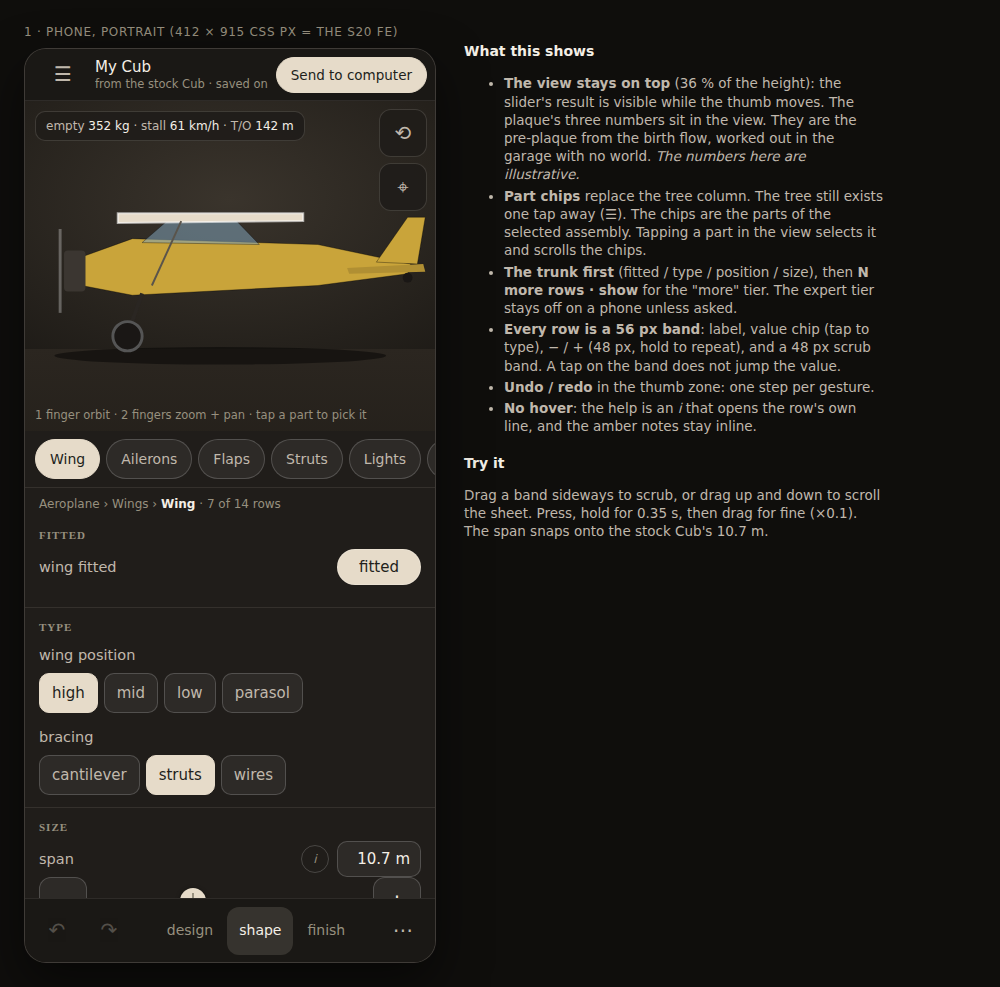
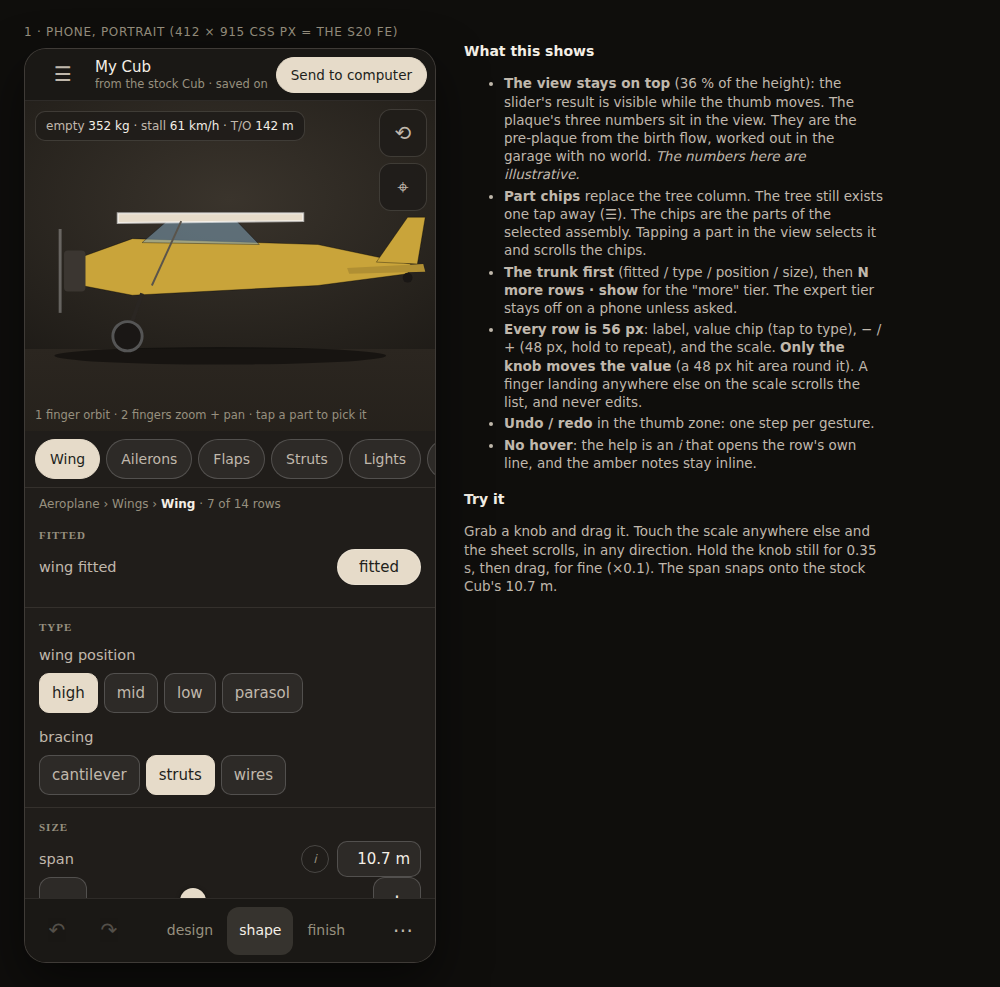
G1512 MOBILE-GARAGE: the user's ruling - on touch ONLY THE KNOB moves a slider; a finger anywhere else on the scale scrolls the list (rowkit, the mock-ups, R4/R5 and the revamp's decisions; the touch check re-run)
Claude-Session: https://claude.ai/code/session_01RFhARPJcxfxfn13XTb5o4Y
(cherry picked from commit 117921a41982d8be7b6f5065f2a150e0549403b7)

Changed region(s): [[0.465, 0.304, 0.868, 0.6079]]

diff --git a/flyDiy/futureDesigns/mobile-garage/rowkit.js b/flyDiy/futureDesigns/mobile-garage/rowkit.js
@@ -58,10 +58,9 @@
   }
 
   // ---- TOUCH: the phone control ----
-  // Rules (MOBILE-GARAGE-2026-10-04.md §2): a 56 px row, a 48 px hit band; a tap on the track does NOT jump the value
-  // (a scroll that lands on a row must never edit); the drag is RELATIVE (it starts where the value is, the finger can
-  // land anywhere on the band); a vertical start scrolls the list instead (touch-action: pan-y); press-and-hold 350 ms
-  // before moving = FINE (x0.1); a live bubble above the finger (the finger hides the thumb); - / + steppers with repeat;
+  // Rules (MOBILE-GARAGE-2026-10-04.md §2): a 56 px row; ONLY THE KNOB MOVES THE VALUE (a 48 px hit area round it) -
+  // a touch anywhere else on the scale scrolls the sheet (touch-action: pan-y) and never edits; the knob's drag is
+  // RELATIVE (no jump to the finger); press-and-hold the knob 350 ms before moving = FINE (x0.1); a live bubble above the finger (the finger hides the thumb); - / + steppers with repeat;
   // a tap on the value opens the decimal keypad; named detents (the archetype's value, the loaded design's) pull 2 %.
   function touchRow(r, P, emit) {
     const kind = ROWKIT.infer(r), row = el('div', 'rk-t rk-t-' + kind); row.dataset.k = r.key;
@@ -101,19 +100,21 @@
           go(); tm = setTimeout(function rep() { go(); tm = setTimeout(rep, 80); }, 400); },
         up() { clearTimeout(tm); if (H.open) { const v = P[r.key]; H.end(); emit(r.key, v, 'release'); } } }; };
     for (const [b, d] of [[minus, -1], [plus, 1]]) { const s = stepper(d); b.onpointerdown = s.down; b.onpointerup = b.onpointerleave = b.onpointercancel = s.up; }
-    // the relative scrub
+    // THE KNOB IS THE ONLY HANDLE (the user, 2026-10-04: "move sliders only by dragging the [knob], NOT by touching the
+    // position on the scale, otherwise it conflicts with simply scrolling through the slider list"). The band has NO
+    // pointer listener and touch-action: pan-y - a finger landing anywhere on the scale scrolls the sheet, whatever its
+    // direction. The knob (26 px drawn, a 48 px hit area: .rk-t-knob::before) has touch-action: none and takes the
+    // pointer at once; the drag is relative (the value moves by the finger's travel, no jump to where it pressed).
     let g = null;
-    band.addEventListener('pointerdown', e => {
-      g = { id: e.pointerId, x0: e.clientX, y0: e.clientY, v0: P[r.key], w: track.getBoundingClientRect().width, mode: 'wait', fine: false, t0: performance.now() };
-      g.hold = setTimeout(() => { if (g && g.mode === 'wait') { g.fine = true; band.classList.add('rk-fine'); } }, 350);
+    knob.addEventListener('pointerdown', e => {
+      e.preventDefault(); e.stopPropagation(); knob.setPointerCapture(e.pointerId);
+      g = { id: e.pointerId, x0: e.clientX, v0: P[r.key], w: track.getBoundingClientRect().width, mode: 'wait', fine: false };
+      band.classList.add('rk-held'); H.begin(r.key, g.v0);
+      g.hold = setTimeout(() => { if (g && g.mode === 'wait') { g.fine = true; band.classList.add('rk-fine'); } }, 350);   // held still: fine
     });
-    band.addEventListener('pointermove', e => {
-      if (!g || e.pointerId !== g.id) return; const dx = e.clientX - g.x0, dy = e.clientY - g.y0;
-      if (g.mode === 'wait') {
-        if (Math.abs(dy) > 10 && Math.abs(dy) > Math.abs(dx)) { clearTimeout(g.hold); g = null; band.classList.remove('rk-fine'); return; }  // a scroll: let it go
-        if (Math.abs(dx) < 8) return;
-        g.mode = 'drag'; clearTimeout(g.hold); band.setPointerCapture(e.pointerId); band.classList.add('rk-drag'); H.begin(r.key, g.v0); g.x0 = e.clientX;
-      }
+    knob.addEventListener('pointermove', e => {
+      if (!g || e.pointerId !== g.id) return;
+      if (g.mode === 'wait') { if (Math.abs(e.clientX - g.x0) < 3) return; g.mode = 'drag'; clearTimeout(g.hold); band.classList.add('rk-drag'); g.x0 = e.clientX; }
       const gain = g.fine ? 0.1 : 1; let v = g.v0 + (e.clientX - g.x0) / g.w * (r.hi - r.lo) * gain;
       for (const d of r.detents || []) if (Math.abs(v - d.v) < 0.02 * (r.hi - r.lo) && !g.fine) v = d.v;   // a detent pulls
       v = snap(clamp(v, r.lo, r.hi), r);
@@ -121,9 +122,9 @@
       bubble.textContent = fmt(v, r) + unit;
     });
     const up = e => { if (!g || e.pointerId !== g.id) return; clearTimeout(g.hold);
-      if (g.mode === 'drag') { H.end(); emit(r.key, P[r.key], 'release'); }
-      band.classList.remove('rk-drag', 'rk-fine'); g = null; };
-    band.addEventListener('pointerup', up); band.addEventListener('pointercancel', up);
+      H.end(); if (g.mode === 'drag') emit(r.key, P[r.key], 'release');
+      band.classList.remove('rk-drag', 'rk-fine', 'rk-held'); g = null; };
+    knob.addEventListener('pointerup', up); knob.addEventListener('pointercancel', up);
     // tap the value: the decimal keypad, in place
     val.onclick = () => { const t = el('input', 'rk-t-type'); t.inputMode = 'decimal'; t.value = fmt(P[r.key], r);
       head.replaceChild(t, val); t.focus(); t.select();

diff --git a/flyDiy/futureDesigns/mobile-garage/portrait.html b/flyDiy/futureDesigns/mobile-garage/portrait.html
@@ -34,12 +34,12 @@
     <li><b>The view stays on top</b> (36 % of the height): the slider's result is visible while the thumb moves. The plaque's three numbers sit in the view. They are the pre-plaque from the birth flow, worked out in the garage with no world. <i>The numbers here are illustrative.</i></li>
     <li><b>Part chips</b> replace the tree column. The tree still exists one tap away (☰). The chips are the parts of the selected assembly. Tapping a part in the view selects it and scrolls the chips.</li>
     <li><b>The trunk first</b> (fitted / type / position / size), then <b>N more rows · show</b> for the "more" tier. The expert tier stays off on a phone unless asked.</li>
-    <li><b>Every row is a 56 px band</b>: label, value chip (tap to type), − / + (48 px, hold to repeat), and a 48 px scrub band. A tap on the band does not jump the value.</li>
+    <li><b>Every row is 56 px</b>: label, value chip (tap to type), − / + (48 px, hold to repeat), and the scale. <b>Only the knob moves the value</b> (a 48 px hit area round it). A finger landing anywhere else on the scale scrolls the list, and never edits.</li>
     <li><b>Undo / redo</b> in the thumb zone: one step per gesture.</li>
     <li><b>No hover</b>: the help is an <i>i</i> that opens the row's own line, and the amber notes stay inline.</li>
   </ul>
   <h3>Try it</h3>
-  <p>Drag a band sideways to scrub, or drag up and down to scroll the sheet. Press, hold for 0.35 s, then drag for fine (×0.1). The span snaps onto the stock Cub's 10.7 m.</p>
+  <p>Grab a knob and drag it. Touch the scale anywhere else and the sheet scrolls, in any direction. Hold the knob still for 0.35 s, then drag, for fine (×0.1). The span snaps onto the stock Cub's 10.7 m.</p>
 </div>
 </div>
 <script src="rowkit.js"></script><script src="mock_rows.js"></script>

diff --git a/flyDiy/futureDesigns/mobile-garage/mock.css b/flyDiy/futureDesigns/mobile-garage/mock.css
@@ -68,7 +68,9 @@ button{font:inherit;color:inherit}
 .rk-t-band{position:relative;flex:1;height:var(--tap);touch-action:pan-y}
 .rk-t-track{position:absolute;left:0;right:0;top:50%;height:6px;margin-top:-3px;border-radius:3px;background:var(--ed-track);overflow:hidden}
 .rk-t-fill{height:100%;background:var(--ed-acc);opacity:.75}
-.rk-t-knob{position:absolute;top:50%;width:26px;height:26px;margin:-13px 0 0 -13px;border-radius:13px;background:var(--ed-acc);box-shadow:0 1px 4px rgba(0,0,0,.6)}
+.rk-t-knob{position:absolute;top:50%;width:26px;height:26px;margin:-13px 0 0 -13px;border-radius:13px;background:var(--ed-acc);box-shadow:0 1px 4px rgba(0,0,0,.6);touch-action:none;cursor:grab;z-index:2}
+.rk-t-knob::before{content:'';position:absolute;inset:-11px}  /* the knob's hit area: 48 px; the scale around it scrolls */
+.rk-held .rk-t-knob{transform:scale(1.25);box-shadow:0 0 0 6px var(--ed-acc-soft),0 1px 4px rgba(0,0,0,.6)}
 .rk-t-det{position:absolute;top:50%;width:2px;height:16px;margin:-8px 0 0 -1px;background:var(--ed-faint)}
 .rk-t-bubble{display:none;position:absolute;bottom:52px;left:50%;transform:translateX(-50%);background:var(--ed-acc);color:var(--ed-acc-ink);padding:6px 12px;border-radius:10px;font-weight:500;font-variant-numeric:tabular-nums;white-space:nowrap}
 .rk-t-fine{display:none;position:absolute;right:0;top:-2px;font-size:11px;color:var(--ed-warn)}

diff --git a/flyDiy/futureDesigns/mobile-garage/rowmodel.html b/flyDiy/futureDesigns/mobile-garage/rowmodel.html
@@ -37,7 +37,7 @@
 //   0..1 step 1 / two names  -&gt; check   (phone: a toggle)
 //   3+ names                 -&gt; select  (phone: chips, a sheet past 6)
 //   integer, &lt;= 8 stops      -&gt; stepper (phone: chips)
-//   else                     -&gt; slider  (phone: scrub band + − / + + typed value)
+//   else                     -&gt; slider  (phone: the KNOB drags, the scale scrolls; − / + ; typed value)
 
 // both renderers emit the SAME two events the editor keys on today:
 //   'tick'    = a drag preview  (DRAG_TICK, G1442-G1444)

diff --git a/flyDiy/futureDesigns/MOBILE-GARAGE-2026-10-04.md b/flyDiy/futureDesigns/MOBILE-GARAGE-2026-10-04.md
@@ -25,7 +25,8 @@ over a recording GL, real ms, ~1.6x the box's JS). **SwiftShader** = headless Ch
    budget of 300), no transmission glass, no crew meshes, no shadow maps, and a capped pixel ratio.
 3. **One row model, two renderers.** Today's row tuple gains six optional fields (`unit`, `group`, `tier`, `fine`,
    `detents`, `help`). A desktop renderer and a touch renderer read it, and both emit the same `tick` / `release`
-   events GARAGE-INSTANT already keys on. **The slider revamp must decide this now** (§2.9). The rest of the phone
+   events GARAGE-INSTANT already keys on. On touch **only the knob moves a value**; a finger anywhere else on a
+   slider scrolls the list (R4, the user's ruling). **The slider revamp must decide this now** (§2.9). The rest of the phone
    UI can come later without a rewrite.
 4. **Phone → computer by link**: `#build=<base64url(deflate-raw(JSON))>` in the URL fragment, so GitHub Pages stays
    static and no server sees the build. The payload is a **patch over a frozen stock base** (20 changed rows = 401
@@ -177,19 +178,28 @@ What the editor is today (the digest of `tools/_cage_ui.js` / `src/viewer/editor
 ### 2.1 Target sizes
 - **R1.** Every target is **≥ 48 × 48 CSS px** (Material's 48 dp; WCAG 2.5.5 AAA asks 44). A drawn control may be
   smaller (the help ring is 28 px) only if its hit area is 48 (`::after { inset: -10px }`).
-- **R2.** A phone row is **56 px**: a label line (28 px: label, help, value chip) over a control line (48 px band and
-  steppers). This holds 9-10 rows in a portrait sheet below a 330 px view. The desktop row stays 30 px; the row
+- **R2.** A phone row is **56 px**: a label line (28 px: label, help, value chip) over a control line (the scale with its
+  48 px knob hit area, and the steppers). This holds 9-10 rows in a portrait sheet below a 330 px view. The desktop row stays 30 px; the row
   model makes that difference, not a fork of the code.
 - **R3.** Adjacent targets are ≥ 8 px apart (chips 6 px apart, plus their own padding).
 
 ### 2.2 Drag, tap-to-edit and steppers: all three, on every slider
-- **R4. The band drags *relatively*.** A drag starts from the current value, wherever the finger lands on the 48 px
-  band, and moves the full range over the band's width. **A tap on the band does not jump the value**: a scroll that
-  lands on a row must never edit (native `<input type=range>` jumps on tap, which is why the prototype draws its own
-  band).
-- **R5. Direction decides.** A vertical start (|dy| > 10 px and > |dx|) is a scroll and the row lets go
-  (`touch-action: pan-y` on the band). A horizontal start (|dx| > 8 px) captures the pointer and scrubs. A 550-row
-  sheet scrolls without editing anything.
+- **R4. ONLY THE KNOB MOVES THE VALUE** (the user's ruling, 2026-10-04: *"move sliders only by dragging the
+  [knob], NOT by touching the position on the scale, otherwise it conflicts with simply scrolling through the slider
+  list"*). The knob is drawn 26 px with a **48 px hit area** (R1). A finger that lands anywhere else on the scale
+  (track, fill, ticks) **does nothing to the value**, whatever its direction: the sheet scrolls. Native
+  `<input type=range>` jumps to the touched position and grabs the gesture, which is why the touch renderer draws its
+  own scale.
+- **R5. The knob takes the finger at once, the scale never does.** The knob has `touch-action: none` and captures the
+  pointer on `pointerdown`, so no direction guessing is needed. The scale and the row have `touch-action: pan-y` and
+  no pointer listener. The knob's drag is **relative**: the value moves by the finger's travel (the full range over
+  the scale's width) and never jumps to where the finger pressed. A 550-row sheet scrolls without editing anything,
+  even when every swipe starts on a slider. The cost is a 48 px square per row (the knob's hit area) from which a
+  swipe drags the knob instead of scrolling. A vertical swipe there moves nothing, and the list scrolls from
+  everywhere else.
+  Checked on the prototype with CDP touch events (`reports/evidence/MOBILE-GARAGE/rowkit_touch_check.txt`): a tap,
+  a horizontal drag and a vertical swipe on the scale leave the value at 1.60 m, and the vertical swipe scrolls the
+  sheet (300 → 394 px). A drag from the knob moves it to 1.85 m and opens one undo entry.
 - **R6. − / + steppers** (48 px) move one `step`; held, they repeat (400 ms, then every 80 ms). A held run is **one**
   undo entry and **one** release.
 - **R7. Tap the value chip to type.** A decimal keypad (`inputmode="decimal"`), clamped and snapped like today's
@@ -198,20 +208,20 @@ What the editor is today (the digest of `tools/_cage_ui.js` / `src/viewer/editor
   ≤ 8 stops) become chips. The widget is **still inferred from the range**, as `_cage_ui.js:2148` does.
 
 ### 2.3 Coarse and fine on a small screen
-- **R9. Fine = press and hold 0.35 s still, then drag:** ×0.1 gain, shown by an amber knob and "fine ×0.1". It needs
+- **R9. Fine = press and hold the knob 0.35 s still, then drag:** ×0.1 gain, shown by an amber knob and "fine ×0.1". It needs
   no second finger and no mode button.
 - **R10. Detents.** Named values (the archetype's, the loaded design's, the stock base's) pull within 2 % of the
   range in coarse mode, and not in fine. This replaces double-click-to-reset on a phone, together with "reset" in the
   row's ⋯ menu.
 - **R11.** A **live bubble above the finger** shows the value while dragging: the finger hides the knob.
-- At 412 CSS px, a span row (6.5-18 m, step 0.1, 115 steps) has a band ~260 px wide: **2.3 px per step coarse,
+- At 412 CSS px, a span row (6.5-18 m, step 0.1, 115 steps) has a scale ~260 px wide: **2.3 px per step coarse,
   23 px per step fine**. A finger's ~7 mm (~45 px) contact patch cannot hit 2.3 px. Fine and the steppers are
   therefore not optional. Typing is the fallback for an exact number.
 
 ### 2.4 The two events stay the editor's
 - **R12. A touch drag is the same `tick` → `release` as a mouse drag.** GARAGE-INSTANT keys its previews on
   `pointerdown` on the row (`DRAG_ON`), `input` (`DRAG_TICK`) and `change` / `pointerup` (`dragSettle`). The touch
-  band emits exactly those. Steppers and typing emit `tick`s then one `release` (today's keyboard and typed path is a
+  knob emits exactly those (pointerdown on the knob = `DRAG_ON`). Steppers and typing emit `tick`s then one `release` (today's keyboard and typed path is a
   plain whole build, 200-260 ms on the box; the stepper's repeat must use the tick path or a held + costs a whole
   build every 80 ms).
 - **R13. Ticks are paced to frames.** At most one tick per rAF; pointer moves in between are coalesced, keeping the
@@ -261,11 +271,11 @@ What the editor is today (the digest of `tools/_cage_ui.js` / `src/viewer/editor
 - **R20. The view and the sheet never share a gesture.**
   - In the view: 1 finger orbits, 2 fingers pinch-zoom **and pan** (two-finger pan is new; pan is mouse-only today,
     app.js:4556), tap picks, double-tap frames the part.
-  - In the sheet: vertical scrolls, horizontal on a band scrubs.
+  - In the sheet: any swipe scrolls, except one that starts on a knob, which drags that knob (R4).
   - The view has `touch-action: none`; the sheet has `pan-y`. A finger that starts in one stays in it until it lifts
     (pointer capture).
 - **R21. No edit by dragging in the 3D view in v1** (no handle-dragging on the model). It is tempting, but on a small
-  screen it fights the orbit. The pin (R17) shows *where*; the band changes *how much*.
+  screen it fights the orbit. The pin (R17) shows *where*; the knob changes *how much*.
 
 ### 2.9 Undo, and the row model built once
 - **R22. Undo / redo, one entry per gesture.** A drag's ticks fold into its press; a held stepper run is one entry; a
@@ -303,7 +313,9 @@ What the editor is today (the digest of `tools/_cage_ui.js` / `src/viewer/editor
      and typed edits take the preview path too.
   5. **An undo history** at the `GARAGE_SPEC.update` boundary, one entry per gesture.
   6. **No information only in hover**: every new hover affordance needs a tap twin (R17-R18).
-  7. **Sizes come from CSS tokens** (`--row`, `--tap`, `--lab`), switched by `(pointer: coarse)`. No pixel
+  7. **The knob is the slider's only handle on touch** (R4-R5): no jump-to-position, so the revamp's slider is
+     its own element (not a styled native range on a phone) and the scale stays scrollable.
+  8. **Sizes come from CSS tokens** (`--row`, `--tap`, `--lab`), switched by `(pointer: coarse)`. No pixel
      constants in JS. (`layoutRight()`'s 390 / 250 / 46 are the ones to move.)
 
   The layout chrome (chips vs tree, sheet vs column, rail vs ribbon) can come in M4 without touching a row.
@@ -452,7 +464,7 @@ numbers.
 - **Touch precision.** 2.3 px per step coarse on a 412 px screen (§2.3). Fine mode, steppers and typing are the answer,
   and the user's thumb is the test (M4).
 - **The revamp's timing.** If the revamp ships rows as hand-built DOM with hover-only help and no `tier`, mobile becomes
-  a second editor. The seven decisions in §2.9 cost the revamp little now and save the rewrite.
+  a second editor. The eight decisions in §2.9 cost the revamp little now and save the rewrite.
 - **Two boots.** B9 made one loading on purpose (no world builds under the player's nose). A garage mode brings back
   "the first roll-out builds the world" on any computer that opens it. Keep the mode out of the desktop's default path
   (only a phone, or `?mode=garage`), and the link's arrival on a computer boots the **full** game.
